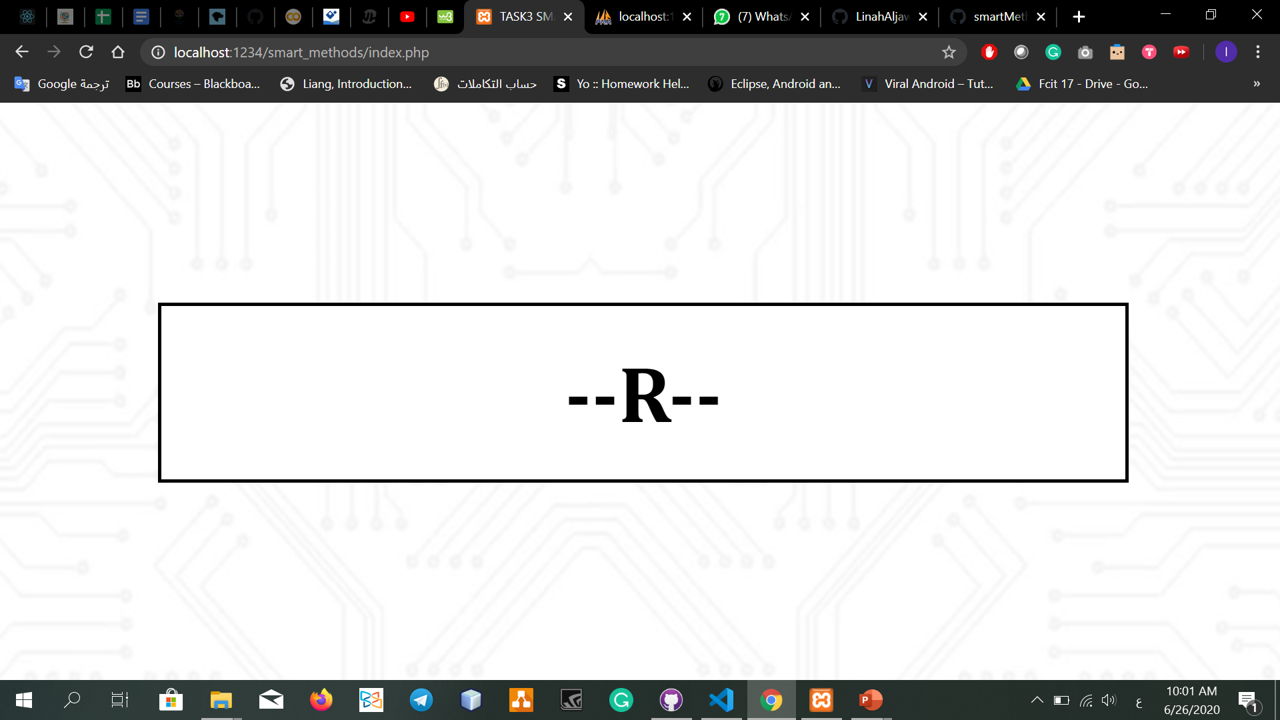
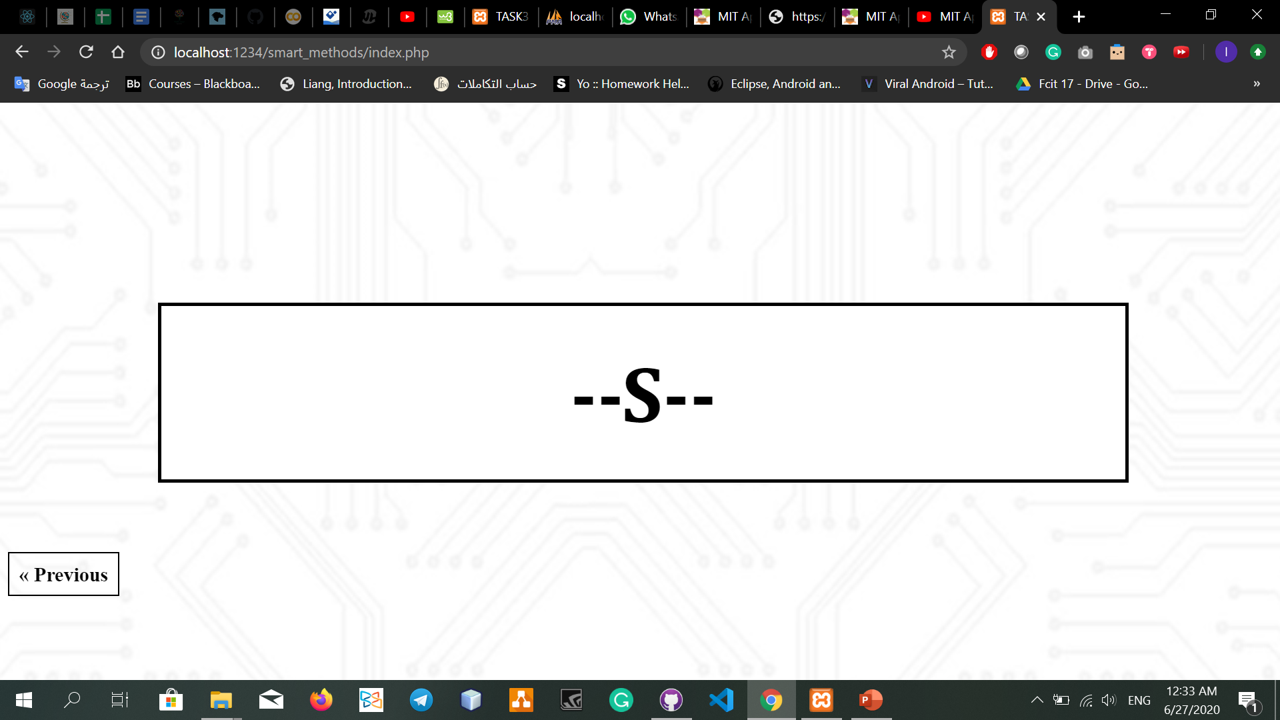
update task

diff --git a/TASK3/index.html b/TASK3/index.html
@@ -28,7 +28,8 @@
                 <button name= "down"  placeholder="control" class="button Bdown"><i class='fas' style="font-size:50px;">&#xf107;</i></button>
                 <button name= "stop"  placeholder="control" class="button Bstop"><i class="fa fa-stop" style=" font-size:30px;"></i></button>
                 <h6>Use this panel to move The Robot...</h6>
-        </div>        
+        </div>     
+           
         </form>
 
     </body>

diff --git a/TASK3/index.php b/TASK3/index.php
@@ -79,6 +79,8 @@ if ($conn->connect_error) {
 
                         $conn->close();
                 ?>
+               <a class="per" href="http://localhost:1234/smart_methods/index.html" style="text-decoration: none;color: black;font-size: 20px;
+                  font-weight: bold;border: 1px solid black;padding: 10px;">&laquo; Previous</a>
         </div>        
         </form>
 
